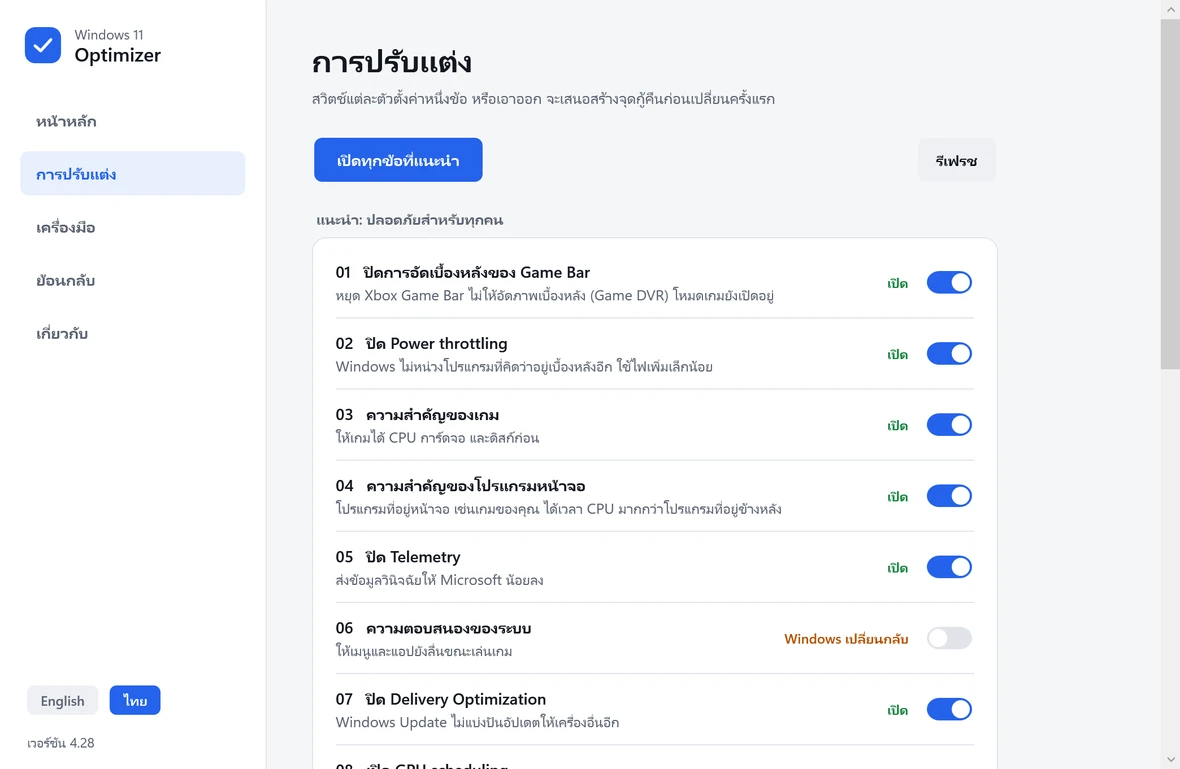
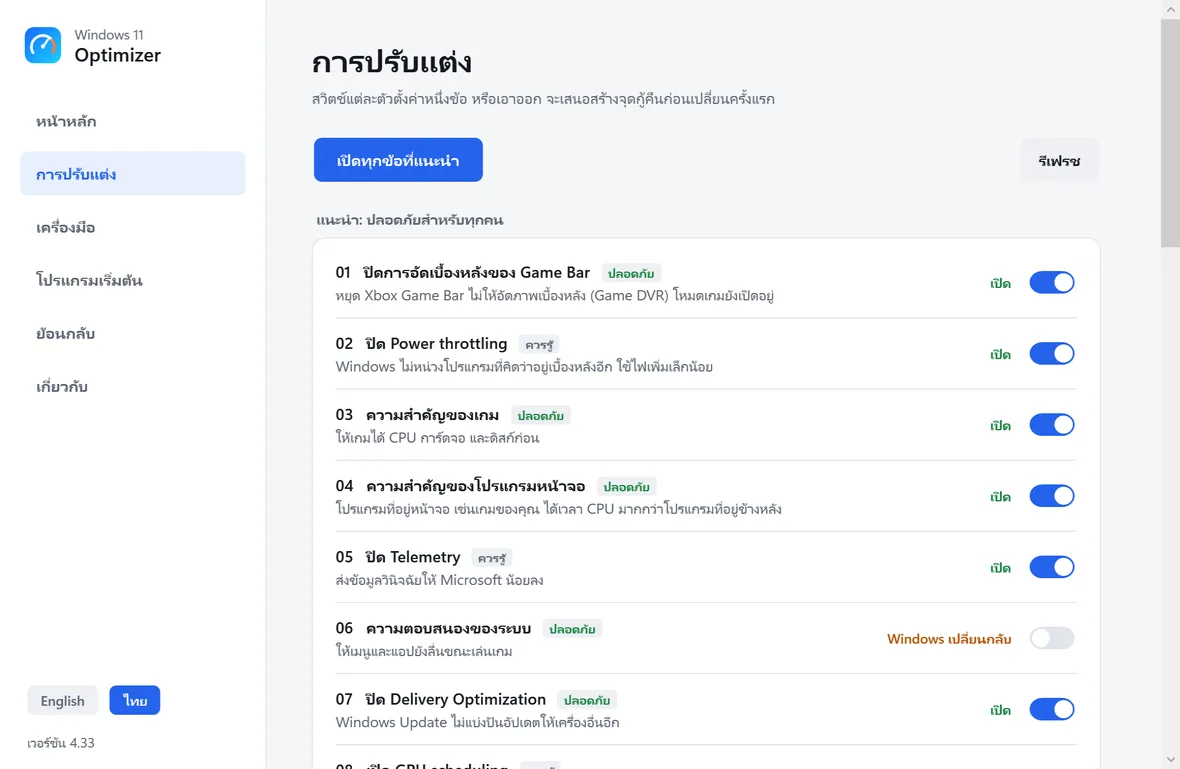
Project cards: refresh Windows 11 Optimizer to v4.33 and add Stream-safe Browser (TH/EN/JA)

diff --git a/src/data/projects.js b/src/data/projects.js
@@ -10,34 +10,36 @@ export const projects = [
       en: 'Tune a Windows 11 gaming PC without the fear of breaking it.',
     },
     desc: {
-      th: 'แอป Windows และชุดสคริปต์ปรับแต่ง Windows 11 สำหรับเล่นเกม แบบโปร่งใส ทุกการแก้ไขอยู่ในไฟล์ .reg ที่อ่านได้ สำรองค่าเดิมก่อนแก้ ย้อนกลับได้ทีละรายการ ตรวจสถานะได้ มีคู่มือตั้งค่า NVIDIA ทีละขั้น และคู่มือภาษาไทยและอังกฤษ',
-      en: 'A Windows app plus transparent gaming tweaks for Windows 11. Every change is a readable .reg file, backed up first and revertible one by one, with a status check, a step-by-step NVIDIA driver guide and Thai and English manuals.',
+      th: 'แอป Windows และชุดสคริปต์ปรับแต่ง Windows 11 สำหรับเล่นเกม แบบโปร่งใส ทุกการแก้ไขอยู่ในไฟล์ .reg ที่อ่านได้ สำรองค่าเดิมก่อนแก้ ย้อนกลับได้ทีละรายการ มีเครื่องมือวัดผลก่อนและหลัง จัดการโปรแกรมที่เปิดพร้อมเครื่อง ล้างพื้นที่ ตรวจไดรเวอร์ คู่มือตั้งค่า NVIDIA ทีละขั้น และคู่มือภาษาไทยและอังกฤษ',
+      en: 'A Windows app plus transparent gaming tweaks for Windows 11. Every change is a readable .reg file, backed up first and revertible one by one. It also measures before and after, manages startup programs, frees disk space, checks drivers, and comes with a step-by-step NVIDIA driver guide and Thai and English manuals.',
     },
     points: {
       th: [
         'แอปหน้าต่างเดียว (Win11 Optimizer.exe) ไม่ต้องติดตั้ง กด Easy Setup ให้ทำครบตามลำดับ หรือเปิด/ปิดทีละค่า',
         'สร้างจุดคืนค่าก่อนเสมอ และทุกการปรับมีไฟล์ย้อนกลับของตัวเอง',
-        'สคริปต์เป็นข้อความธรรมดา ซอร์สโค้ดของแอปเปิดให้ตรวจ (C# ประมาณ 1,500 บรรทัด)',
-        'ไม่ลบไฟล์ ไม่แตะไฟล์เกม ไม่ส่งข้อมูลส่วนตัวออกไปไหน',
+        'วัดเครื่องก่อนและหลังปรับ ปิดโปรแกรมที่เปิดพร้อม Windows (ไม่ลบอะไร) ล้างไฟล์ชั่วคราวเมื่อคุณสั่งเท่านั้น',
+        'อัปเดตตัวเองหลังคุณยืนยัน พร้อมตรวจ SHA-256 และมีชุดทดสอบอัตโนมัติรันทุกครั้งที่แก้โค้ด',
+        'ซอร์สโค้ดของแอปเปิดให้ตรวจ (C# ประมาณ 1,800 บรรทัด) ไม่ลบไฟล์ ไม่แตะไฟล์เกม ไม่ส่งข้อมูลส่วนตัวออกไปไหน',
       ],
       en: [
         'A one-window app (Win11 Optimizer.exe), nothing to install: press Easy Setup to run everything in order, or switch tweaks one by one',
         'A restore point comes first, and every tweak has its own undo file',
-        'Plain-text scripts and an open-source app (about 1,500 lines of C#) you can inspect',
-        'Deletes nothing, leaves game files alone, sends none of your personal data anywhere',
+        'Measures your PC before and after, switches off programs that start with Windows (nothing is deleted), and removes temporary files only when you say yes',
+        'Updates itself after you confirm, with a SHA-256 check, and automated tests run on every change to the code',
+        'Open-source app (about 1,800 lines of C#) you can inspect. Deletes nothing, leaves game files alone, sends none of your personal data anywhere',
       ],
     },
     facts: [
-      { value: '16', label: { th: 'ค่าปรับแต่งที่มีเอกสารรองรับ', en: 'documented tweaks' } },
+      { value: '26', label: { th: 'ค่าปรับแต่งที่มีไฟล์ย้อนกลับ', en: 'tweaks, each with an undo' } },
+      { value: 'v4.33', label: { th: 'เวอร์ชันล่าสุด', en: 'latest version' } },
       { value: 'TH · EN', label: { th: 'แอปและคู่มือ 2 ภาษา', en: 'app and manuals' } },
-      { value: 'MIT', label: { th: 'โอเพนซอร์ส ใช้ฟรี', en: 'open source, free' } },
     ],
     note: {
       th: 'ตรงไปตรงมา: ผลต่อ FPS ไม่มาก และขึ้นกับแต่ละเกม ไดรเวอร์การ์ดจอ การตั้งค่าในเกม และความเย็นสำคัญกว่า — จึงไม่สัญญาตัวเลข',
       en: 'The FPS gain is small and depends on the game. GPU drivers, in-game settings and cooling matter far more, so no numbers are promised.',
     },
-    images: ['proj-win11-app-home', 'proj-win11-app-tweaks', 'proj-win11-menu'],
-    imagesTh: ['proj-win11-app-home-th', 'proj-win11-app-tweaks-th', 'proj-win11-menu'],
+    images: ['proj-win11-app-home', 'proj-win11-app-startup', 'proj-win11-app-tools'],
+    imagesTh: ['proj-win11-app-home-th', 'proj-win11-app-startup-th', 'proj-win11-app-tools-th'],
     tags: ['Windows 11', 'C#', 'Batch', 'Registry', 'Open source (MIT)'],
     url: 'https://github.com/Kensukeimagery/win11-optimizer',
     download: 'https://github.com/Kensukeimagery/win11-optimizer/releases/latest/download/win11-optimizer.zip',
@@ -84,6 +86,48 @@ export const projects = [
     url: 'https://github.com/Kensukeimagery/speaker-awake',
     download: 'https://github.com/Kensukeimagery/speaker-awake/releases/latest',
     docs: 'https://github.com/Kensukeimagery/speaker-awake#readme',
+  },
+  {
+    title: 'Stream-safe Browser',
+    year: '2026',
+    tagline: {
+      th: 'แชร์จอ Discord ตอนดู Netflix และ Disney+ โดยจอไม่ดำ',
+      en: 'Share Netflix and Disney+ on Discord without the black screen.',
+    },
+    desc: {
+      th: 'ตัวเปิด Microsoft Edge บน Windows ที่ปิดเฉพาะ PlayReady hardware DRM ซึ่งเป็นตัวที่ทำให้โปรแกรมจับภาพหน้าจออย่าง Discord เห็นจอดำ ส่วน GPU ยังทำงานเต็มที่ ไม่ต้องปิด Graphics acceleration ติดตั้งด้วยการดับเบิลคลิกครั้งเดียว',
+      en: 'A launcher for Microsoft Edge on Windows that turns off only PlayReady hardware DRM, the part that makes screen-capture apps such as Discord see a black screen. The GPU keeps working at full speed, so there is no need to turn off graphics acceleration. One double-click installs it.',
+    },
+    points: {
+      th: [
+        'ปิดเฉพาะ hardware DRM ไม่ปิด GPU เว็บอื่นจึงไม่กระตุกเหมือนตอนปิด Graphics acceleration',
+        'ติดตั้งใน 3 ขั้นตอน ได้ทางลัด Edge (Stream-safe) บน Desktop และลบออกได้ด้วย Uninstall.bat',
+        'มี extension เล็กๆ บอกว่า hardware DRM ปิดอยู่หรือไม่ และเตือนบนเว็บสตรีมมิ่ง',
+        'ทดสอบบน Edge 156 กับ Netflix จริง: โหมดปกติจับภาพได้จอดำ โหมด Stream-safe เห็นภาพ และยังเล่น 1080p ได้',
+      ],
+      en: [
+        'Turns off hardware DRM only, not the GPU, so other sites do not stutter the way they do with graphics acceleration off',
+        'Three-step install adds an Edge (Stream-safe) shortcut to your Desktop, and Uninstall.bat removes it',
+        'A small extension shows whether hardware DRM is off and warns you on streaming sites',
+        'Tested on Edge 156 with a real Netflix account: the capture is black in normal mode and visible in Stream-safe mode, still at 1080p',
+      ],
+    },
+    facts: [
+      { value: '3', label: { th: 'ขั้นตอนติดตั้ง', en: 'install steps' } },
+      { value: '1080p', label: { th: 'Netflix ยังเล่นได้', en: 'Netflix still plays' } },
+      { value: 'MIT', label: { th: 'โอเพนซอร์ส ใช้ฟรี', en: 'open source, free' } },
+    ],
+    note: {
+      th: 'ตรงไปตรงมา: ใช้เพื่อแชร์จอของตัวเองให้เพื่อนดู ไม่ได้ช่วยเลี่ยง DRM เพื่อคัดลอกเนื้อหา Netflix 4K/HDR ดูไม่ได้ในโหมดนี้ และผลกับ Discord จริงยังรอรายงานจากผู้ใช้',
+      en: 'For sharing your own screen with friends, not for copying content. Netflix 4K/HDR does not play in this mode, and results with Discord itself are still awaiting user reports.',
+    },
+    downloadLabel: { th: 'ดาวน์โหลดฟรี (Windows)', en: 'Download free (Windows)' },
+    docsLabel: { th: 'อ่านวิธีใช้', en: 'Read the guide' },
+    images: ['proj-ssb-banner'],
+    tags: ['Windows', 'Microsoft Edge', 'PowerShell', 'Open source (MIT)'],
+    url: 'https://github.com/Kensukeimagery/stream-safe-browser',
+    download: 'https://github.com/Kensukeimagery/stream-safe-browser/releases/latest/download/stream-safe-browser-windows.zip',
+    docs: 'https://github.com/Kensukeimagery/stream-safe-browser#readme',
   },
 ];
 

diff --git a/src/data/ja.js b/src/data/ja.js
@@ -210,14 +210,15 @@ export const talentServicesJa = [
 export const projectsJa = [
   {
     tagline: 'Windows 11のゲーミングPCを、壊す不安なしでチューニング。',
-    desc: 'Windows 11のゲーミング向け設定を、透明性を重視して最適化するWindowsアプリとスクリプト集。変更はすべて読みやすい.regファイルで、事前にバックアップを取り、1つずつ元に戻せます。状態チェック、NVIDIAドライバー設定のステップ別ガイド、タイ語・英語のマニュアル付き。',
+    desc: 'Windows 11のゲーミング向け設定を、透明性を重視して最適化するWindowsアプリとスクリプト集。変更はすべて読みやすい.regファイルで、事前にバックアップを取り、1つずつ元に戻せます。調整の前後を測定し、スタートアップの管理、ディスクの空き容量確保、ドライバー確認もでき、NVIDIAドライバー設定のステップ別ガイドとタイ語・英語のマニュアルも付属します。',
     points: [
       '1ウィンドウのアプリ（Win11 Optimizer.exe）。インストール不要で、Easy Setupを押せば正しい順番ですべて実行、または調整を1つずつ切り替え可能',
       '最初に復元ポイントを作成。すべての調整に専用の元に戻すファイル付き',
-      'スクリプトは普通のテキスト。アプリのソースコード（C#約1,500行）も公開しています',
-      'ファイルは削除せず、ゲームファイルにも触れず、個人データも送信しません',
+      '調整の前後でPCを測定。Windowsと一緒に起動するプログラムをオフにでき（削除はしません）、一時ファイルは「はい」と答えたときだけ削除',
+      '確認後に自己更新（SHA-256検証つき）。コードを変更するたびに自動テストが実行されます',
+      'アプリのソースコード（C#約1,800行）を公開。ファイルは削除せず、ゲームファイルにも触れず、個人データも送信しません',
     ],
-    facts: { 0: { label: '文書化された調整項目' }, 1: { label: 'アプリとマニュアル（タイ語・英語）' }, 2: { label: 'オープンソース・無料' } },
+    facts: { 0: { label: '元に戻せる調整項目' }, 1: { label: '最新バージョン' }, 2: { label: 'アプリとマニュアル（タイ語・英語）' } },
     note: '正直なところ、FPSの向上はわずかで、ゲームによって異なります。GPUドライバー、ゲーム内設定、冷却のほうがずっと重要なので、数値の約束はしません。',
   },
   {
@@ -231,6 +232,20 @@ export const projectsJa = [
     ],
     facts: { 0: { label: '信号モード' }, 1: { label: 'アプリの言語' }, 2: { label: 'オープンソース・無料' } },
     note: 'スピーカーの機種によって結果は異なります。モードと設定をスピーカーに合わせて調整すれば効果が得られます（開発者がMicrolab Solo 29で動作確認済み）。調整方法はガイドに記載しています。',
+    downloadLabel: '無料ダウンロード (Windows)',
+    docsLabel: '使い方を読む',
+  },
+  {
+    tagline: 'NetflixやDisney+をDiscordで画面共有しても、黒い画面にならない。',
+    desc: 'WindowsのMicrosoft Edgeを起動するランチャーで、Discordなどの画面キャプチャが黒くなる原因であるPlayReadyハードウェアDRMだけをオフにします。GPUはフルに動作するので、グラフィックアクセラレーションをオフにする必要はありません。ダブルクリック1回でインストールできます。',
+    points: [
+      'オフにするのはハードウェアDRMだけで、GPUはそのまま。アクセラレーションをオフにしたときのような他サイトのカクつきがありません',
+      '3ステップでインストールし、デスクトップにEdge（Stream-safe）のショートカットを作成。Uninstall.batで削除できます',
+      'ハードウェアDRMがオフかどうかを表示し、配信サイトで知らせる小さな拡張機能つき',
+      '本物のNetflixアカウントのEdge 156で検証：通常モードではキャプチャが黒く、Stream-safeモードでは映り、1080pでも再生できました',
+    ],
+    facts: { 0: { label: 'インストール手順' }, 1: { label: 'Netflixは再生可能' }, 2: { label: 'オープンソース・無料' } },
+    note: '自分の画面を友人と共有するための用途で、コンテンツのコピーを目的としたものではありません。Netflixの4K/HDRはこのモードでは再生できず、Discordでの実際の結果はユーザーからの報告待ちです。',
     downloadLabel: '無料ダウンロード (Windows)',
     docsLabel: '使い方を読む',
   },

diff --git a/CLAUDE.md b/CLAUDE.md
@@ -39,7 +39,7 @@ Main focus of the content: on-camera (presenter/actor) and sales work.
 ## Recent state
 - CIMB THAI "Reminder Man" clip + 4 event photos (lightbox) in the ads category are live. The 5th photo (group shot with staff) was left out.
 - ENTAKU exhibition "อยากอวยให้ทุกครั้ง" (Palette Artspace floors 3–4, Bangkok, 14 Oct – 4 Nov 2026) is live with 4 photos; owner will add photos from the real show after visiting.
-- Side projects on the profile page: Windows 11 Optimizer and Speaker Awake (spotlight cards from src/data/projects.js; images registered in images.json under proj-*).
+- Side projects on the profile page: Windows 11 Optimizer (v4.33), Speaker Awake and Stream-safe Browser (spotlight cards from src/data/projects.js; images registered in images.json under proj-*).
 
 ## Open items (waiting on owner)
 - Change "10+ brands" to "20+"?
